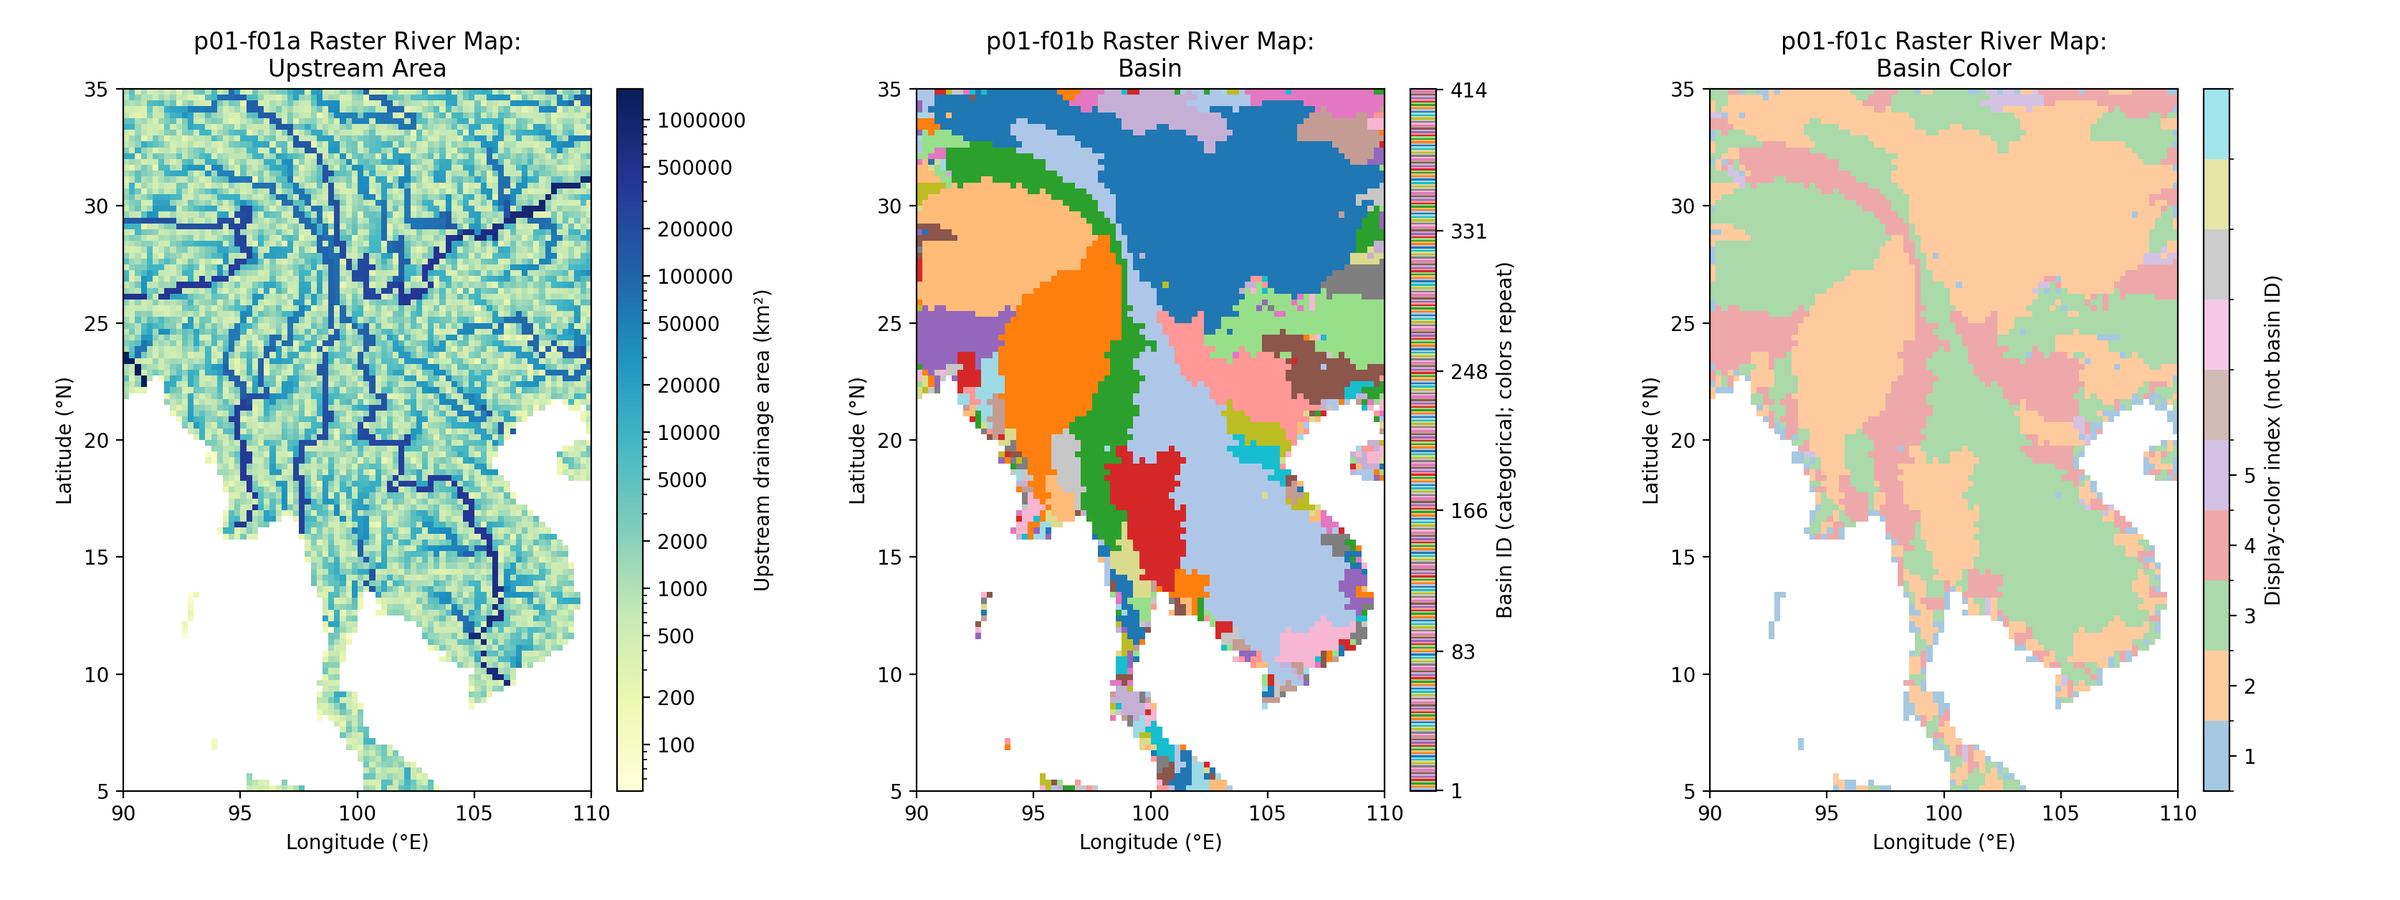
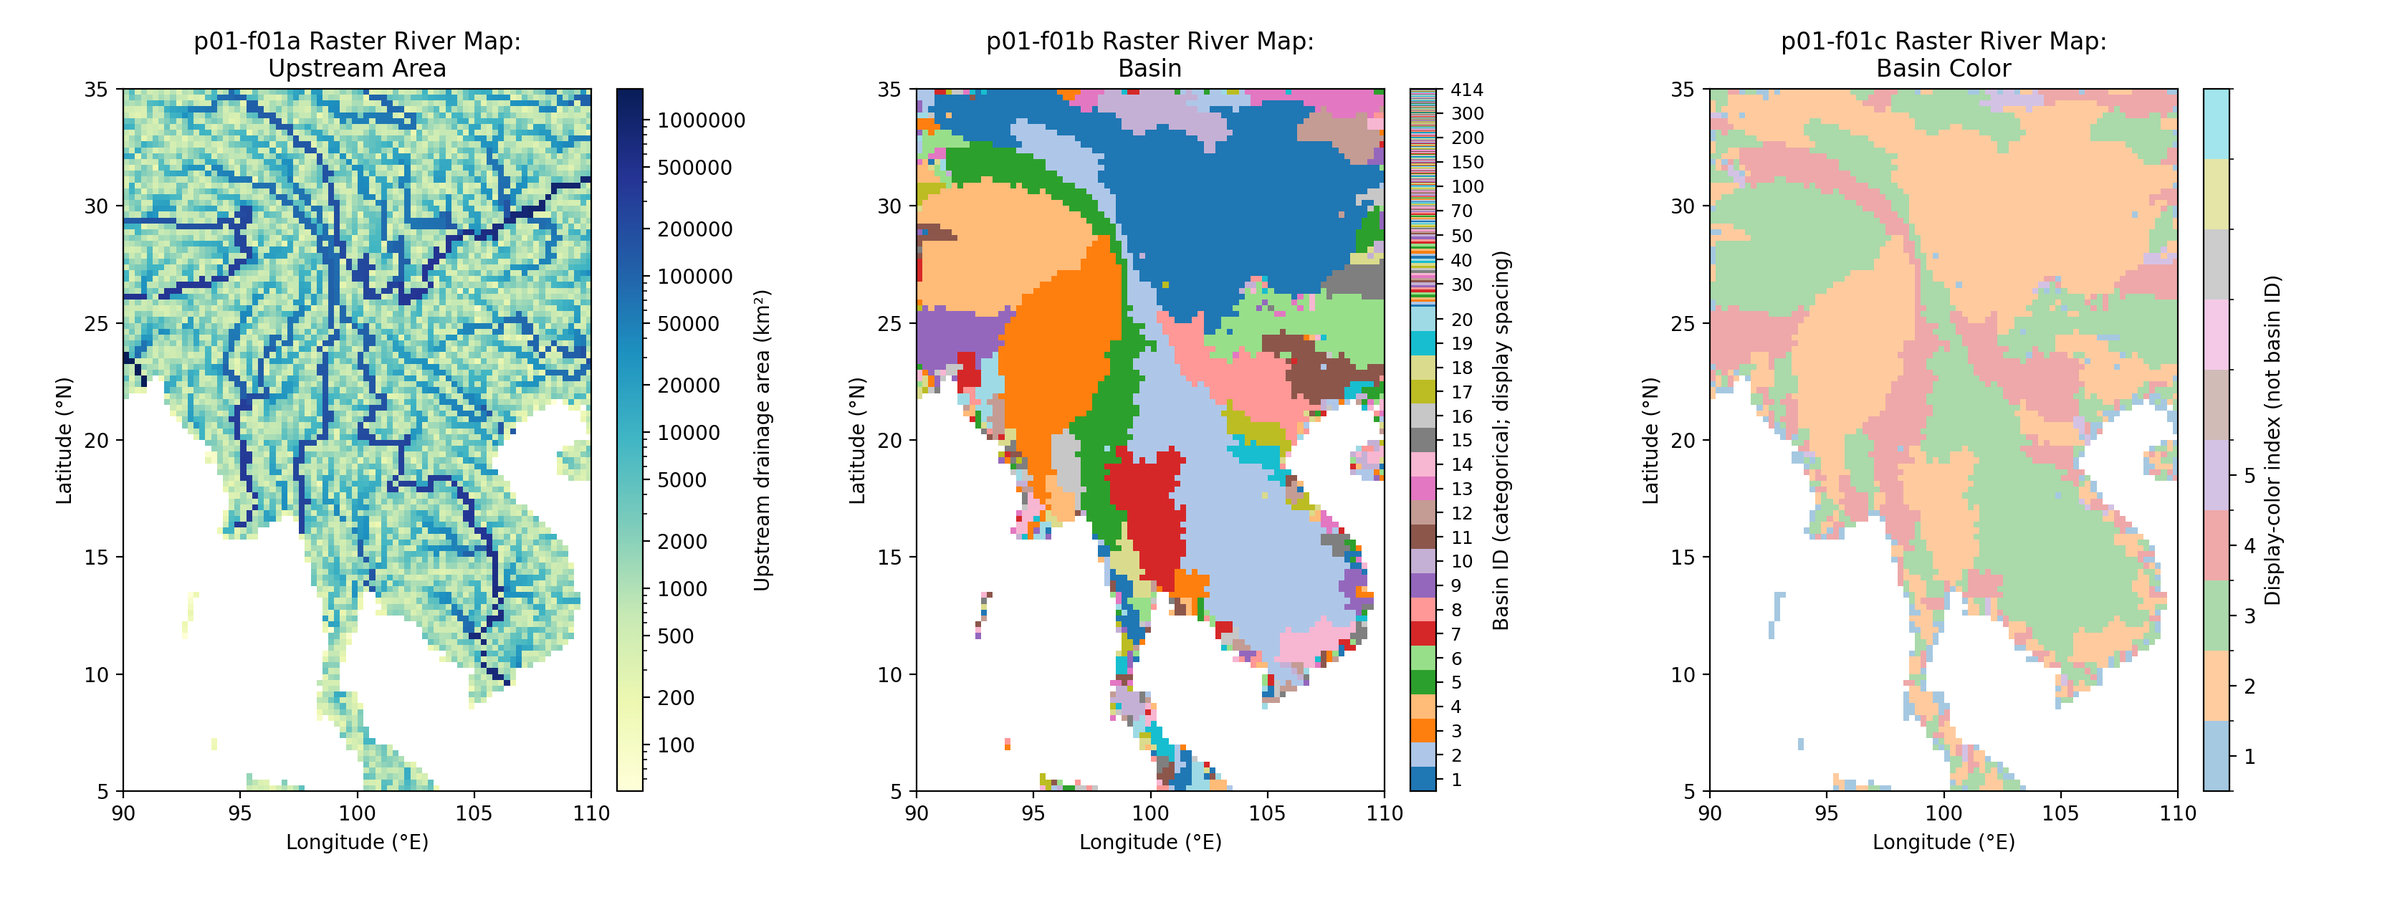
Expand low basin IDs in display-only categorical legend

Changed region(s): [[0.5625, 0.0933, 0.6562, 0.8711]]

diff --git a/visualization/river_map/script/f01b-raster_river_map-basin.py b/visualization/river_map/script/f01b-raster_river_map-basin.py
@@ -17,6 +17,45 @@ from river_network_layout import (
 )
 
 
+def draw_basin_legend(fig, cax, image, categories):
+    """Expand low categorical IDs using legend geometry only, not LogNorm.
+
+    IDs 1–20 each occupy one display slot. Each subsequent interval ending
+    at a representative ID occupies one slot too, compressing its individual
+    color swatches. The map's raw IDs, BoundaryNorm and palette are reused.
+    """
+    minimum, maximum = int(categories.min()), int(categories.max())
+    representatives = np.array([30, 40, 50, 70, 100, 150, 200, 300])
+    upper_ids = np.unique(np.r_[representatives, maximum])
+    upper_ids = upper_ids[(upper_ids > 20) & (upper_ids >= minimum) & (upper_ids <= maximum)]
+    low_ids = np.arange(minimum, min(20, maximum) + 1)
+    # Piecewise-linear display coordinates at integer category boundaries.
+    # No logarithm or scientific scaling is applied to the raster or IDs.
+    knots = np.r_[minimum - 0.5, low_ids + 0.5, upper_ids + 0.5]
+    boundaries = np.arange(minimum - 0.5, maximum + 1.5)
+    display_edges = np.interp(boundaries, knots, np.arange(len(knots)))
+    cax.pcolormesh(
+        [0, 1], display_edges, np.arange(minimum, maximum + 1)[:, None],
+        cmap=image.get_cmap(), norm=image.norm, shading="flat", rasterized=True,
+    )
+    ticks = np.unique(np.r_[categories[categories <= 20], upper_ids])
+    ticks = ticks[np.isin(ticks, categories)]
+    positions = np.interp(ticks, knots, np.arange(len(knots)))
+    cax.set_ylim(display_edges[0], display_edges[-1])
+    cax.set_xlim(0, 1)
+    cax.set_xticks([])
+    cax.set_yticks(positions, labels=[str(value) for value in ticks])
+    cax.yaxis.tick_right()
+    cax.yaxis.set_label_position("right")
+    cax.set_ylabel("Basin ID (categorical; display spacing)")
+    cax.minorticks_off()
+    # Keep all twenty low-ID labels separate at smaller configured heights.
+    height_inches = fig.get_figheight() * cax.get_position().height
+    gap = float(np.diff(positions).min()) if len(positions) > 1 else 1.0
+    font_size = min(9.0, 0.85 * 72 * height_inches * gap / np.ptp(display_edges))
+    cax.tick_params(axis="y", labelsize=font_size)
+
+
 def main() -> None:
     parser = argparse.ArgumentParser(description=__doc__)
     parser.add_argument("--input", type=Path, required=True, help="Original basin.nc")
@@ -46,10 +85,7 @@ def main() -> None:
         geometry, args, "p01-f01b Raster River Map:\nBasin", show_colorbar=True,
     )
     image = draw_raster(ax, np.ma.masked_where(~valid, values), geometry, cmap, norm)
-    ticks = categories[np.linspace(0, len(categories) - 1, min(6, len(categories)), dtype=int)]
-    colorbar = fig.colorbar(image, cax=cax, ticks=ticks, spacing="uniform")
-    colorbar.set_label("Basin ID (categorical; colors repeat)")
-    colorbar.minorticks_off()
+    draw_basin_legend(fig, cax, image, categories)
     save_fixed_panel(fig, ax, cax, args)
     plt.close(fig)
     print(f"Wrote {args.output}; {len(categories)} original basin IDs: {minimum}–{maximum}")

diff --git a/visualization/river_map/script/test_raster_river_map.py b/visualization/river_map/script/test_raster_river_map.py
@@ -68,6 +68,20 @@ class RasterRiverMapTest(unittest.TestCase):
                             if variable == "basin":
                                 self.assertEqual(len(np.unique(image.get_array().compressed())), 414)
                                 self.assertIn("categorical", cax.get_ylabel())
+                                labels = [tick.get_text() for tick in cax.get_yticklabels()]
+                                self.assertEqual(labels, [str(n) for n in
+                                    [*range(1, 21), 30, 40, 50, 70, 100, 150, 200, 300, 414]])
+                                legend = cax.collections[0]
+                                ids = np.arange(1, 415)
+                                np.testing.assert_array_equal(legend.get_array().ravel(), ids)
+                                np.testing.assert_array_equal(
+                                    legend.get_cmap()(legend.norm(ids)),
+                                    image.get_cmap()(image.norm(ids)),
+                                )
+                                edges = legend.get_coordinates()[:, 0, 1]
+                                np.testing.assert_allclose(np.diff(edges[:21]), 1)
+                                self.assertTrue(np.all(np.diff(edges[20:]) < 1))
+                                self.assertEqual(cax.get_yscale(), "linear")
                             else:
                                 indices = np.unique(expected.compressed())
                                 colors = image.get_cmap()(image.norm(indices))[:, :3]
@@ -84,6 +98,10 @@ class RasterRiverMapTest(unittest.TestCase):
                                          row["visualization_id"] + " " + row["title"])
                         size = original_save(fig, ax, cax, args)
                         renderer = fig.canvas.get_renderer()
+                        if variable == "basin":
+                            boxes = [label.get_window_extent(renderer) for label in cax.get_yticklabels()]
+                            for lower, upper in zip(boxes, boxes[1:]):
+                                self.assertLess(lower.y1, upper.y0)
                         np.testing.assert_allclose(ax.get_window_extent().bounds[1::2],
                                                    cax.get_window_extent().bounds[1::2], atol=1e-8)
                         for axes in (ax, cax):

diff --git a/research/records/validation_runs/VR-0140.md b/research/records/validation_runs/VR-0140.md
@@ -1,0 +1,47 @@
+# VR-0140: Display-only pseudo-log categorical basin legend
+
+- Task: DT-0095 follow-up; instruction EV-0448, implementation EV-0449,
+  validation EV-0450; approved branch `manual-automation`.
+- Starting commit: `551e474ea3674eeebf5162d63d2c2f4edd177cde`.
+- Maintainer request: expand categorical basin IDs 1–20 in the legend and
+  compress higher IDs without applying scientific log normalization or changing
+  map colors. Existing completion instructions authorize commit and push.
+
+## Approach
+
+After inspecting the existing `BoundaryNorm` map and uniform colorbar, chose a
+custom legend mesh in the existing reserved axis. Each ID through 20 occupies
+one display slot. Each later interval ending at 30, 40, 50, 70, 100, 150, 200,
+300 and the maximum ID also occupies one slot, compressing its individual
+swatches. Every swatch uses the map's unchanged raw-ID palette and BoundaryNorm.
+Only legend coordinates are piecewise transformed; both axes remain linear,
+with no logarithm or LogNorm for basin IDs. Tick font size adapts to panel height.
+README, script comments, and the catalog method description explain these
+display semantics. Basin IDs remain categorical and repeating colors are not
+unique identifiers.
+
+## Verification
+
+- Regenerated f01 with `bash visualization/river_map/f01-raster_river_map.sh`
+  using the repository Python environment, Agg backend, and writable cache.
+  Basin PNG stays 1079x1200; composite stays 2400x900. Visually inspected the
+  combined Figure: labels 1–20 are individually readable; higher labels are
+  30,40,50,70,100,150,200,300,414. Colorbar rectangle and map alignment are intact.
+- `python visualization/river_map/script/test_raster_river_map.py` passes all
+  three existing size scenarios. Added checks establish the exact legend label
+  set, expanded/compressed geometry, matching legend/map category colors,
+  linear display axis, and non-overlapping label bounding boxes. Existing tests
+  retain the original raw data/masks, categorical map norm and common geometry.
+- Compared the basin PNG with the starting Git blob: all columns left of
+  x=820, including the entire map, axes and title, are pixel-identical. Changes
+  are confined to the reserved legend region (pixel bounds x=831–979,
+  y=87–1085). Other f01 panel PNGs and every f02 PNG remain byte-identical.
+- Only f01b's catalog `method` text changes; all other fields and rows are
+  unchanged. Visualization Markdown local paths resolve. `git diff --check`
+  and `python research/validate_records.py` pass.
+- Gallery, f02 scripts, shared helpers, combiner, model calculations and map
+  generation are unchanged. Updated f01b and composite PNGs are tracked.
+
+This validates categorical display readability and map preservation, not a
+continuous scientific scale. Knowledge-gap review found no new material
+scientific or architectural uncertainty.

diff --git a/visualization/river_map/README.md b/visualization/river_map/README.md
@@ -60,7 +60,7 @@ observation-station data are required.
 | Panel | File and variable | Display |
 | --- | --- | --- |
 | f01a | `map/mekong_15min/netcdf/uparea.nc`: `uparea(lat, lon)`, m² | Convert to km²; mask missing/non-finite/non-positive values; retain `YlGnBu` with logarithmic normalization over all valid map cells. |
-| f01b | `map/mekong_15min/netcdf/basin.nc`: `basin(lat, lon)`, unitless | Display original positive integer IDs with one discrete bin per original integer value. Repeat the qualitative `tab20` palette across IDs; no conversion to `bsncol`. The colorbar labels actual IDs and states that colors repeat. |
+| f01b | `map/mekong_15min/netcdf/basin.nc`: `basin(lat, lon)`, unitless | Display original positive integer IDs with one discrete bin per original integer value. Repeat the qualitative `tab20` palette across IDs; no conversion to `bsncol`. A display-only pseudo-log categorical legend expands IDs 1–20 and labels representative higher IDs. |
 | f01c | `map/mekong_15min/netcdf/bsncol.nc`: `bsncol(lat, lon)`, unitless | Display the precomputed indices directly with discrete bins for 1–10. Mix the base `tab10` RGB colors with 60% opaque white to obtain distinguishable pastel colors; only used indices are labeled. |
 
 All three Git-tracked inputs share an 80 × 120 grid at 0.25°. Coordinates are
@@ -71,6 +71,16 @@ Repeated raw-ID colors in f01b are a display choice, not adjacency-aware basin
 coloring or unique identifiers. Use the numeric raster to identify a basin.
 In f01c, neighboring regions with different display indices retain different
 colors after lightening; the plot does not recalculate boundaries or indices.
+
+The f01b legend uses **display-only pseudo-log categorical spacing**. IDs 1–20
+each occupy a full slot with an individual label. Above 20, intervals ending
+at 30, 40, 50, 70, 100, 150, 200, 300 and the maximum ID share one slot each;
+only these representative IDs are labeled. Every integer's swatch still uses
+its existing map color, but higher-ID swatches are compressed. This custom
+legend changes display geometry only: the map retains its discrete
+`BoundaryNorm`, original categorical IDs and repeating palette. There is no
+`LogNorm`, continuous scientific scale, or physical meaning to legend spacing.
+Tick text adapts to configured panel height to avoid overlaps.
 
 ### Basin preparation and provenance
 

diff --git a/docs/dev_status.md b/docs/dev_status.md
@@ -22,6 +22,13 @@ Three f01 sizing scenarios and five f02 scenarios pass; f02 PNGs regenerated
 byte-for-byte unchanged. Gallery and map/model sources remain unchanged. See
 [VR-0139](../research/records/validation_runs/VR-0139.md) for evidence and limits.
 
+The maintainer's follow-up requests a display-only pseudo-log categorical legend
+for f01b: IDs 1–20 have individual expanded slots; higher IDs have compressed
+intervals and representative labels. Map colors, raw IDs and geometry remain
+unchanged. Three sizing checks pass with no overlapping legend labels; the map
+pixels exactly match the prior Figure. See
+[VR-0140](../research/records/validation_runs/VR-0140.md).
+
 ### Visualization method naming and discovery (2026-11-12)
 
 The maintainer assigned this bounded refactor to `manual-automation`, owned by
